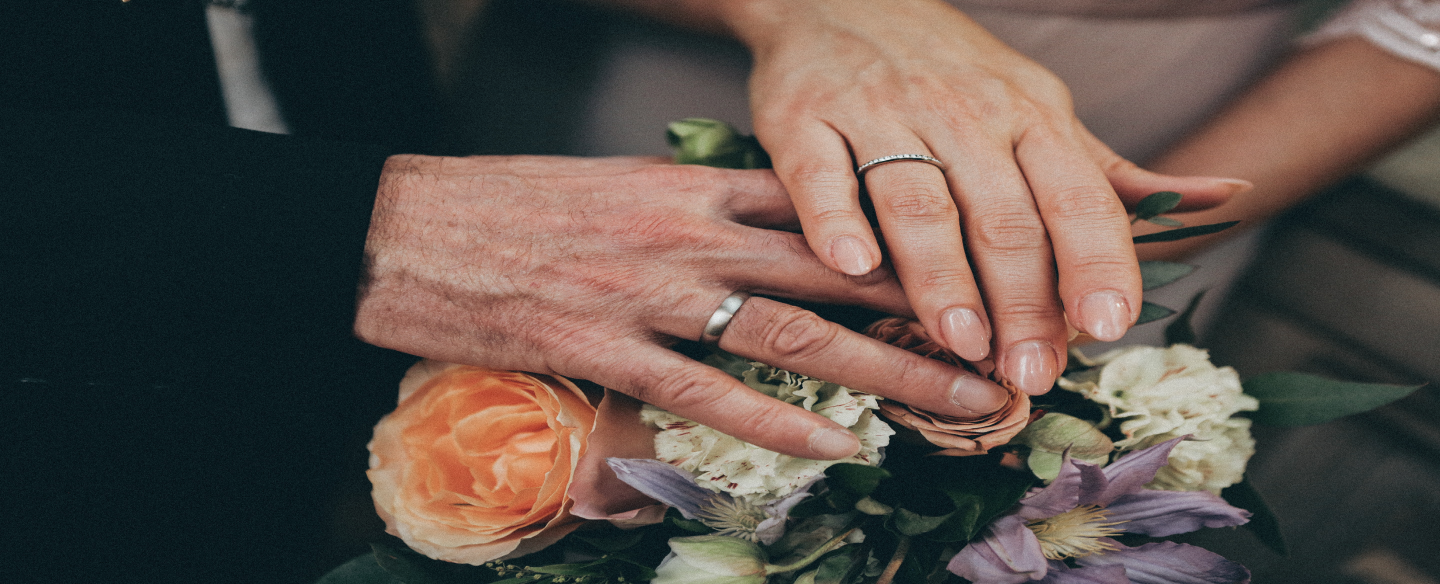
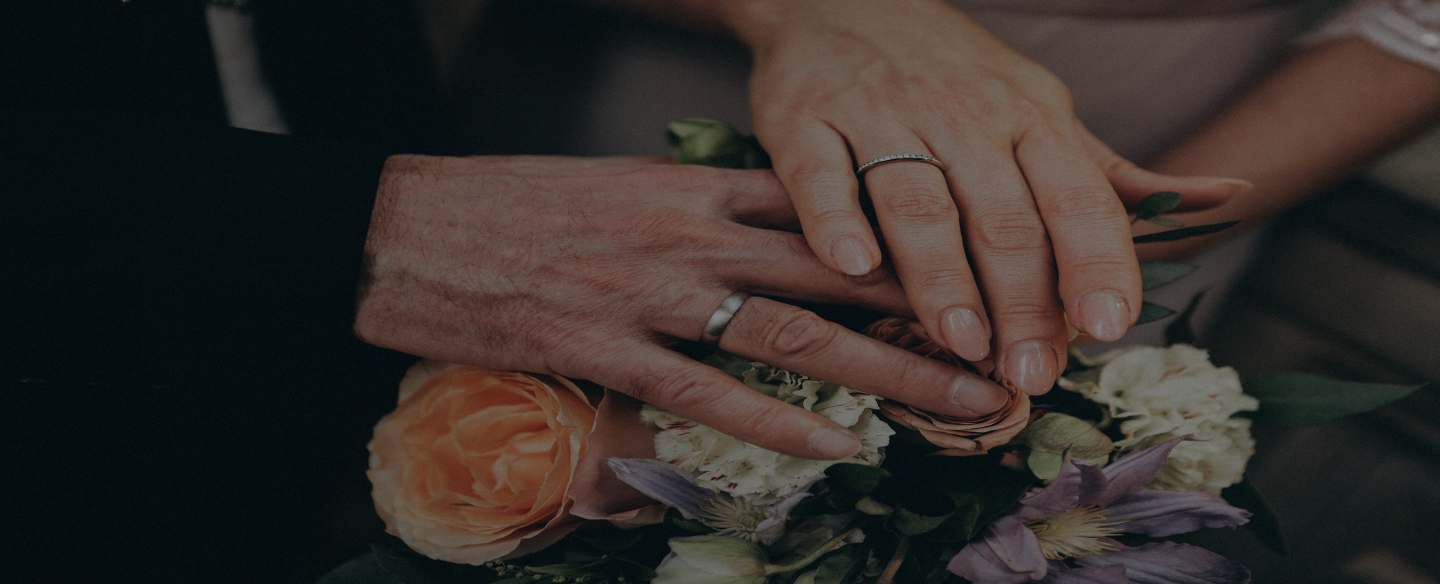
images modified and styles added

diff --git a/index.html b/index.html
@@ -16,7 +16,7 @@
 
 <body>
     <header>
-        <nav class="navbar navbar-expand-lg navbar-light">
+        <nav class="navbar navbar-expand-lg navbar-light bg-light">
             <div class="container">
                 <a class="navbar-brand" href="#">NaAz Convention Center</a>
                 <button class="navbar-toggler" type="button" data-bs-toggle="collapse" data-bs-target="#navbarNav"
@@ -58,31 +58,34 @@
                 <div class="carousel-inner">
                     <div class="carousel-item active">
                         <img src="images/banner.png" class="d-block w-100" alt="...">
-                        <div class="carousel-caption d-none d-md-block my-5">
-                            <h1>The perfect venue for your next event</h1>
+                        <div class="carousel-caption d-none d-md-block m-5 p-5">
+                            <h1>The perfect venue for your<br>next event</h1>
                             <p>Some representative placeholder content for the first slide.</p>
-                            <button class="btn btn-secondary">Book Now</button>
+                            <button class="btn btn-light text-primary px-4">Book Now</button>
                         </div>
                     </div>
                     <div class="carousel-item">
                         <img src="images/banner2.png" class="d-block w-100" alt="...">
-                        <div class="carousel-caption d-none d-md-block my-5">
+                        <div class="carousel-caption d-none d-md-block m-5 p-5">
                             <h1>We set the stage. You take centre.</h1>
                             <p>Some representative placeholder content for the second slide.</p>
+                            <button class="btn btn-light text-primary px-4">Book Now</button>
                         </div>
                     </div>
                     <div class="carousel-item">
                         <img src="images/banner3.png" class="d-block w-100" alt="...">
-                        <div class="carousel-caption d-none d-md-block my-5">
+                        <div class="carousel-caption d-none d-md-block m-5 p-5">
                             <h1>Third slide label</h1>
                             <p>Some representative placeholder content for the third slide.</p>
+                            <button class="btn btn-light text-primary px-4">Book Now</button>
                         </div>
                     </div>
                     <div class="carousel-item">
                         <img src="images/banner4.png" class="d-block w-100" alt="...">
-                        <div class="carousel-caption d-none d-md-block my-5">
+                        <div class="carousel-caption d-none d-md-block m-5 p-5">
                             <h1>Third slide label</h1>
                             <p>Some representative placeholder content for the third slide.</p>
+                            <button class="btn btn-light text-primary px-4">Book Now</button>
                         </div>
                     </div>
                 </div>
@@ -109,7 +112,8 @@
                 <h1>Every moment is Precious</h1>
                 <p>Lorem ipsum dolor sit amet consectetur adipisicing elit. Odit quidem molestiae aliquid, adipisci
                     expedita deleniti officiis nihil vitae incidunt illo, culpa commodi libero autem itaque.</p>
-                <button class="btn btn-secondary">Explore Our Album</button>
+                <button class="btn btn-secondary">Explore Our Album <img src="icons/arrow-forward 1.svg"
+                        alt=""></button>
             </div>
         </section>
 
@@ -118,7 +122,7 @@
             <h1 class="text-center my-5">Our Packages</h1>
             <div class="row">
                 <div class="col-3">
-                    <div class="card border-0 bg-secondary">
+                    <div class="card border-0">
                         <div class="card-body">
                             <h1>$300</h1>
                             <h3>Business Fair</h3>
@@ -134,7 +138,7 @@
                     </div>
                 </div>
                 <div class="col-3">
-                    <div class="card border-0 bg-secondary">
+                    <div class="card border-0">
                         <div class="card-body">
                             <h1>$300</h1>
                             <h3>Business Fair</h3>
@@ -150,8 +154,8 @@
                     </div>
                 </div>
                 <div class="col-3">
-                    <div class="card border-0 bg-secondary">
-                        <div class="card-body">
+                    <div class="card border-0 bg-primary text-white">
+                        <div class="card-body position-relative">
                             <h1>$300</h1>
                             <h3>Business Fair</h3>
                             <p class="card-text">Lorem, ipsum dolor sit amet consectetur adipisicing elit.
@@ -161,12 +165,16 @@
                             <p><i class="fas fa-check-circle"></i><span>Lorem, ipsum.</span> </p>
                             <p><i class="fas fa-check-circle"></i><span>Lorem, ipsum.</span> </p>
                             <p><i class="fas fa-check-circle"></i><span>Lorem, ipsum.</span> </p>
-                            <a href="#" class="btn btn-primary">Choose Plan</a>
+                            <a href="#" class="btn btn-light text-primary">Choose Plan</a>
+                            <span
+                                class="position-absolute top-0 start-100 translate-middle badge rounded-pill bg-danger">
+                                Hot
+                                <span class="visually-hidden">Hot Package</span>
                         </div>
                     </div>
                 </div>
                 <div class="col-3">
-                    <div class="card border-0 bg-secondary">
+                    <div class="card border-0">
                         <div class="card-body">
                             <h1>$300</h1>
                             <h3>Business Fair</h3>
@@ -217,8 +225,6 @@
                 </div>
             </div>
         </section>
-
-
 
         <section class="container my-5">
             <h1>Frequently Asked Questions</h1>
@@ -308,13 +314,35 @@
                 </div>
             </div>
         </section>
+
+
+        <section class="container d-flex">
+            <div class="w-100 me-5">
+                <img src="images/contact.jpg" alt="" width="100%">
+            </div>
+            <div class="w-100 ms-5">
+                <form action="">
+                    <h1>Contact Us</h1>
+                    <div class="form-floating mb-3">
+                        <input type="email" class="form-control" id="floatingInput" placeholder="name@example.com">
+                        <label for="floatingInput">Email address</label>
+                    </div>
+                    <div class="form-floating">
+                        <textarea class="form-control" placeholder="Leave a comment here" id="floatingTextarea2"
+                            style="height: 100px"></textarea>
+                        <label for="floatingTextarea2">Comments</label>
+                    </div>
+                    <button type="submit" class="btn btn-primary mt-3 ms-auto">Submit</button>
+                </form>
+            </div>
+        </section>
     </main>
 
 
     <footer class="mt-5 bg-dark text-white">
         <div class="container d-flex justify-content-between align-items-center" style="height: 200px;">
             <div>
-                <p>&copy; 2020 bike. All rights reserved</p>
+                <p>&copy; 2022 Afridi Azmain. All rights reserved</p>
             </div>
             <div>
                 <h5>Get the App</h5>
